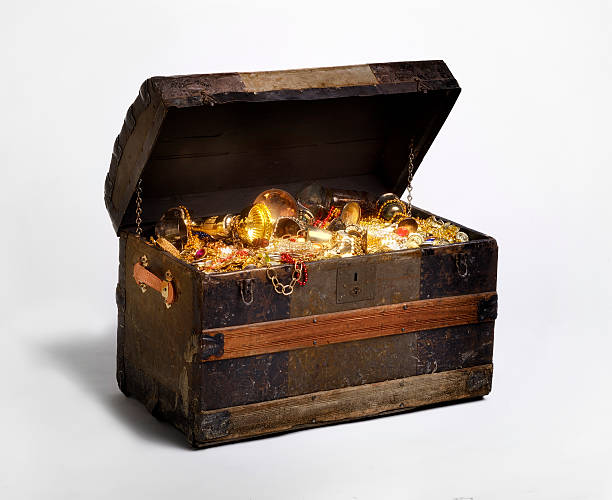
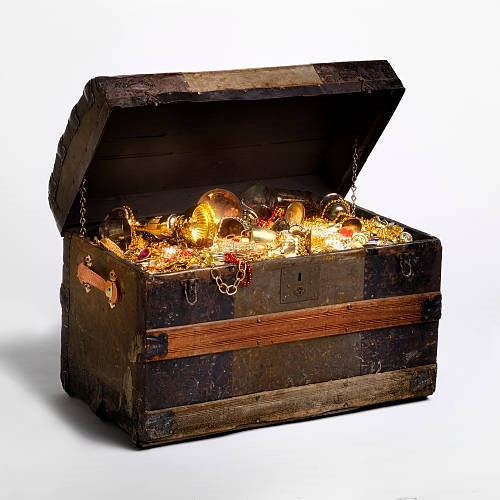
Modified images size

Changed region(s): [[0.0, 0.12, 0.9, 0.93], [0.81, 0.99, 0.84, 1.0], [0.75, 0.99, 0.78, 1.0]]

diff --git a/pirate.html b/pirate.html
@@ -12,21 +12,51 @@
           integrity="sha384-BBtl+eGJRgqQAUMxJ7pMwbEyER4l1g+O15P+16Ep7Q9Q+zqX6gSbd85u4mG4QzX+" crossorigin="anonymous"></script>      
     </head>
     <body>
-        <h1>Find the treasure by Rajesh Arigela</h1>
-        <div style="color: rgb(255, 7, 7); background-color: rgb(243, 247, 29);">
-            <b>Click on the locations to search for treasure, beware the traps.</b>
+        <div class="container-fluid">
+            <h1>Find the treasure by Rajesh Arigela</h1>
+            <div style="color: rgb(255, 7, 7); background-color: rgb(243, 247, 29); font-family: 'Courier New', Courier, monospace;"><b>Click on the locations to search for treasure, beware the traps.</b></div>
+            <div id="locations" style="color: blueviolet; font-family: Arial, Helvetica, sans-serif;">Number of locations checked is zero.</div>
+            <div id="penalty">Penalty is zero.</div>
+            <div style="color: rgb(253, 2, 236); font-family: 'Times New Roman', Times, serif;"><b>Click for help.</b></div>
+            <div id="help" style="color: #07fad2;">Help report.</div>
+        </div><br>
+        <div class="container" >
+            <div class="row">
+                <div class="col-md-2"><img src="teasure_map.jpg" width="125" height="125"></div>
+                <div class="col-md-2"><img src="teasure.jpg" width="125" height="125"></div>
+                <div class="col-md-2"><img src="pirate.jpg" width="125" height="125"></div>
+                <div class="col-md-2"><img src="trap.jpg" width="125" height="125"></div>
+                <div class="col-md-2"><img src="teasure.jpg" width="125" height="125"></div>
+            </div>
+            <div class="row">
+                <div class="col-md-2"><img src="pirate.jpg" width="125" height="125"></div>
+                <div class="col-md-2"><img src="trap.jpg" width="125" height="125"></div>
+                <div class="col-md-2"><img src="teasure_map.jpg" width="125" height="125"></div>
+                <div class="col-md-2"><img src="teasure.jpg" width="125" height="125"></div>
+                <div class="col-md-2"><img src="pirate.jpg" width="125" height="125"></div>
+            </div>
+            <div class="row">
+                <div class="col-md-2"><img src="teasure.jpg" width="125" height="125"></div>
+                <div class="col-md-2"><img src="pirate.jpg" width="125" height="125"></div>
+                <div class="col-md-2"><img src="trap.jpg" width="125" height="125"></div>
+                <div class="col-md-2"><img src="teasure_map.jpg" width="125" height="125"></div>
+                <div class="col-md-2"><img src="teasure.jpg" width="125" height="125"></div>
+            </div>
+            <div class="row">
+                <div class="col-md-2"><img src="trap.jpg" width="125" height="125"></div>
+                <div class="col-md-2"><img src="teasure_map.jpg" width="125" height="125"></div>
+                <div class="col-md-2"><img src="teasure.jpg" width="125" height="125"></div>
+                <div class="col-md-2"><img src="pirate.jpg" width="125" height="125"></div>
+                <div class="col-md-2"><img src="teasure_map.jpg" width="125" height="125"></div>
+            </div>
+            <div class="row">
+                <div class="col-md-2"><img src="teasure_map.jpg" width="125" height="125"></div>
+                <div class="col-md-2"><img src="teasure.jpg" width="125" height="125"></div>
+                <div class="col-md-2"><img src="pirate.jpg" width="125" height="125"></div>
+                <div class="col-md-2"><img src="teasure.jpg" width="125" height="125"></div>
+                <div class="col-md-2"><img src="trap.jpg" width="125" height="125"></div>
+            </div>                                                
         </div>
-       <div id="locations" style="color: blueviolet;">
-            Number of locations checked is zero.
-       </div>
-       <div id="penalty">
-            Penalty is zero.
-       </div>
-       <div style="color: rgb(253, 2, 236);">
-            <b>Click for help.</b>
-       </div>
-       <div id="help" style="color: #07fad2;">
-            Help report.
-       </div>
+
     </body>
 </html>
